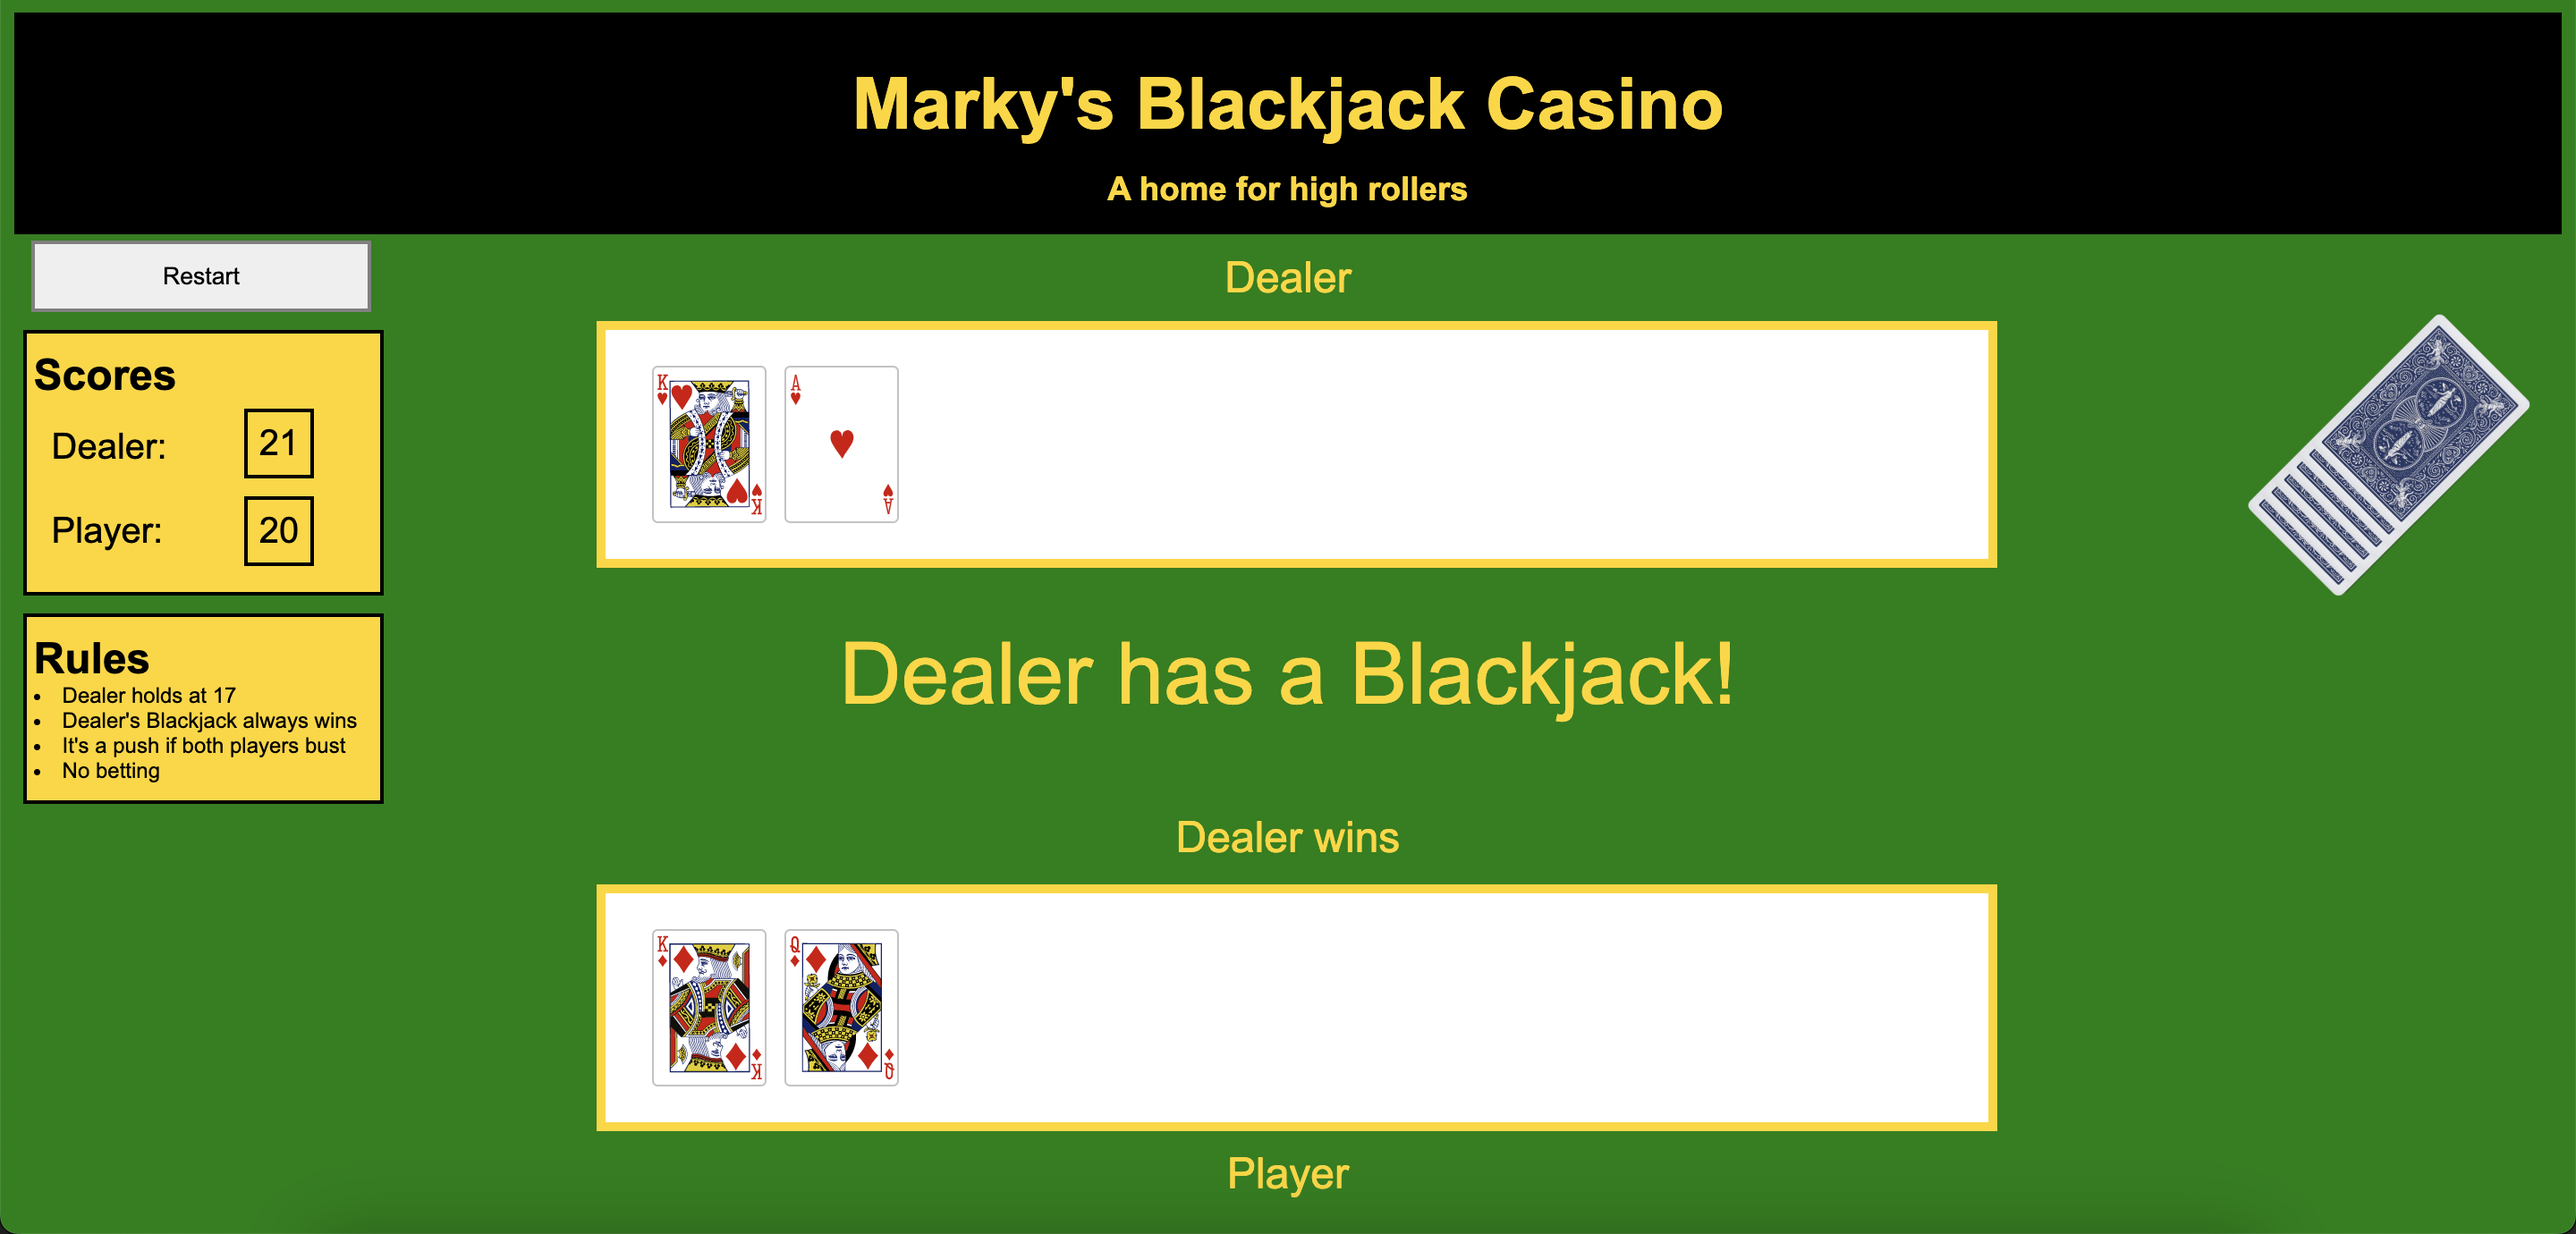
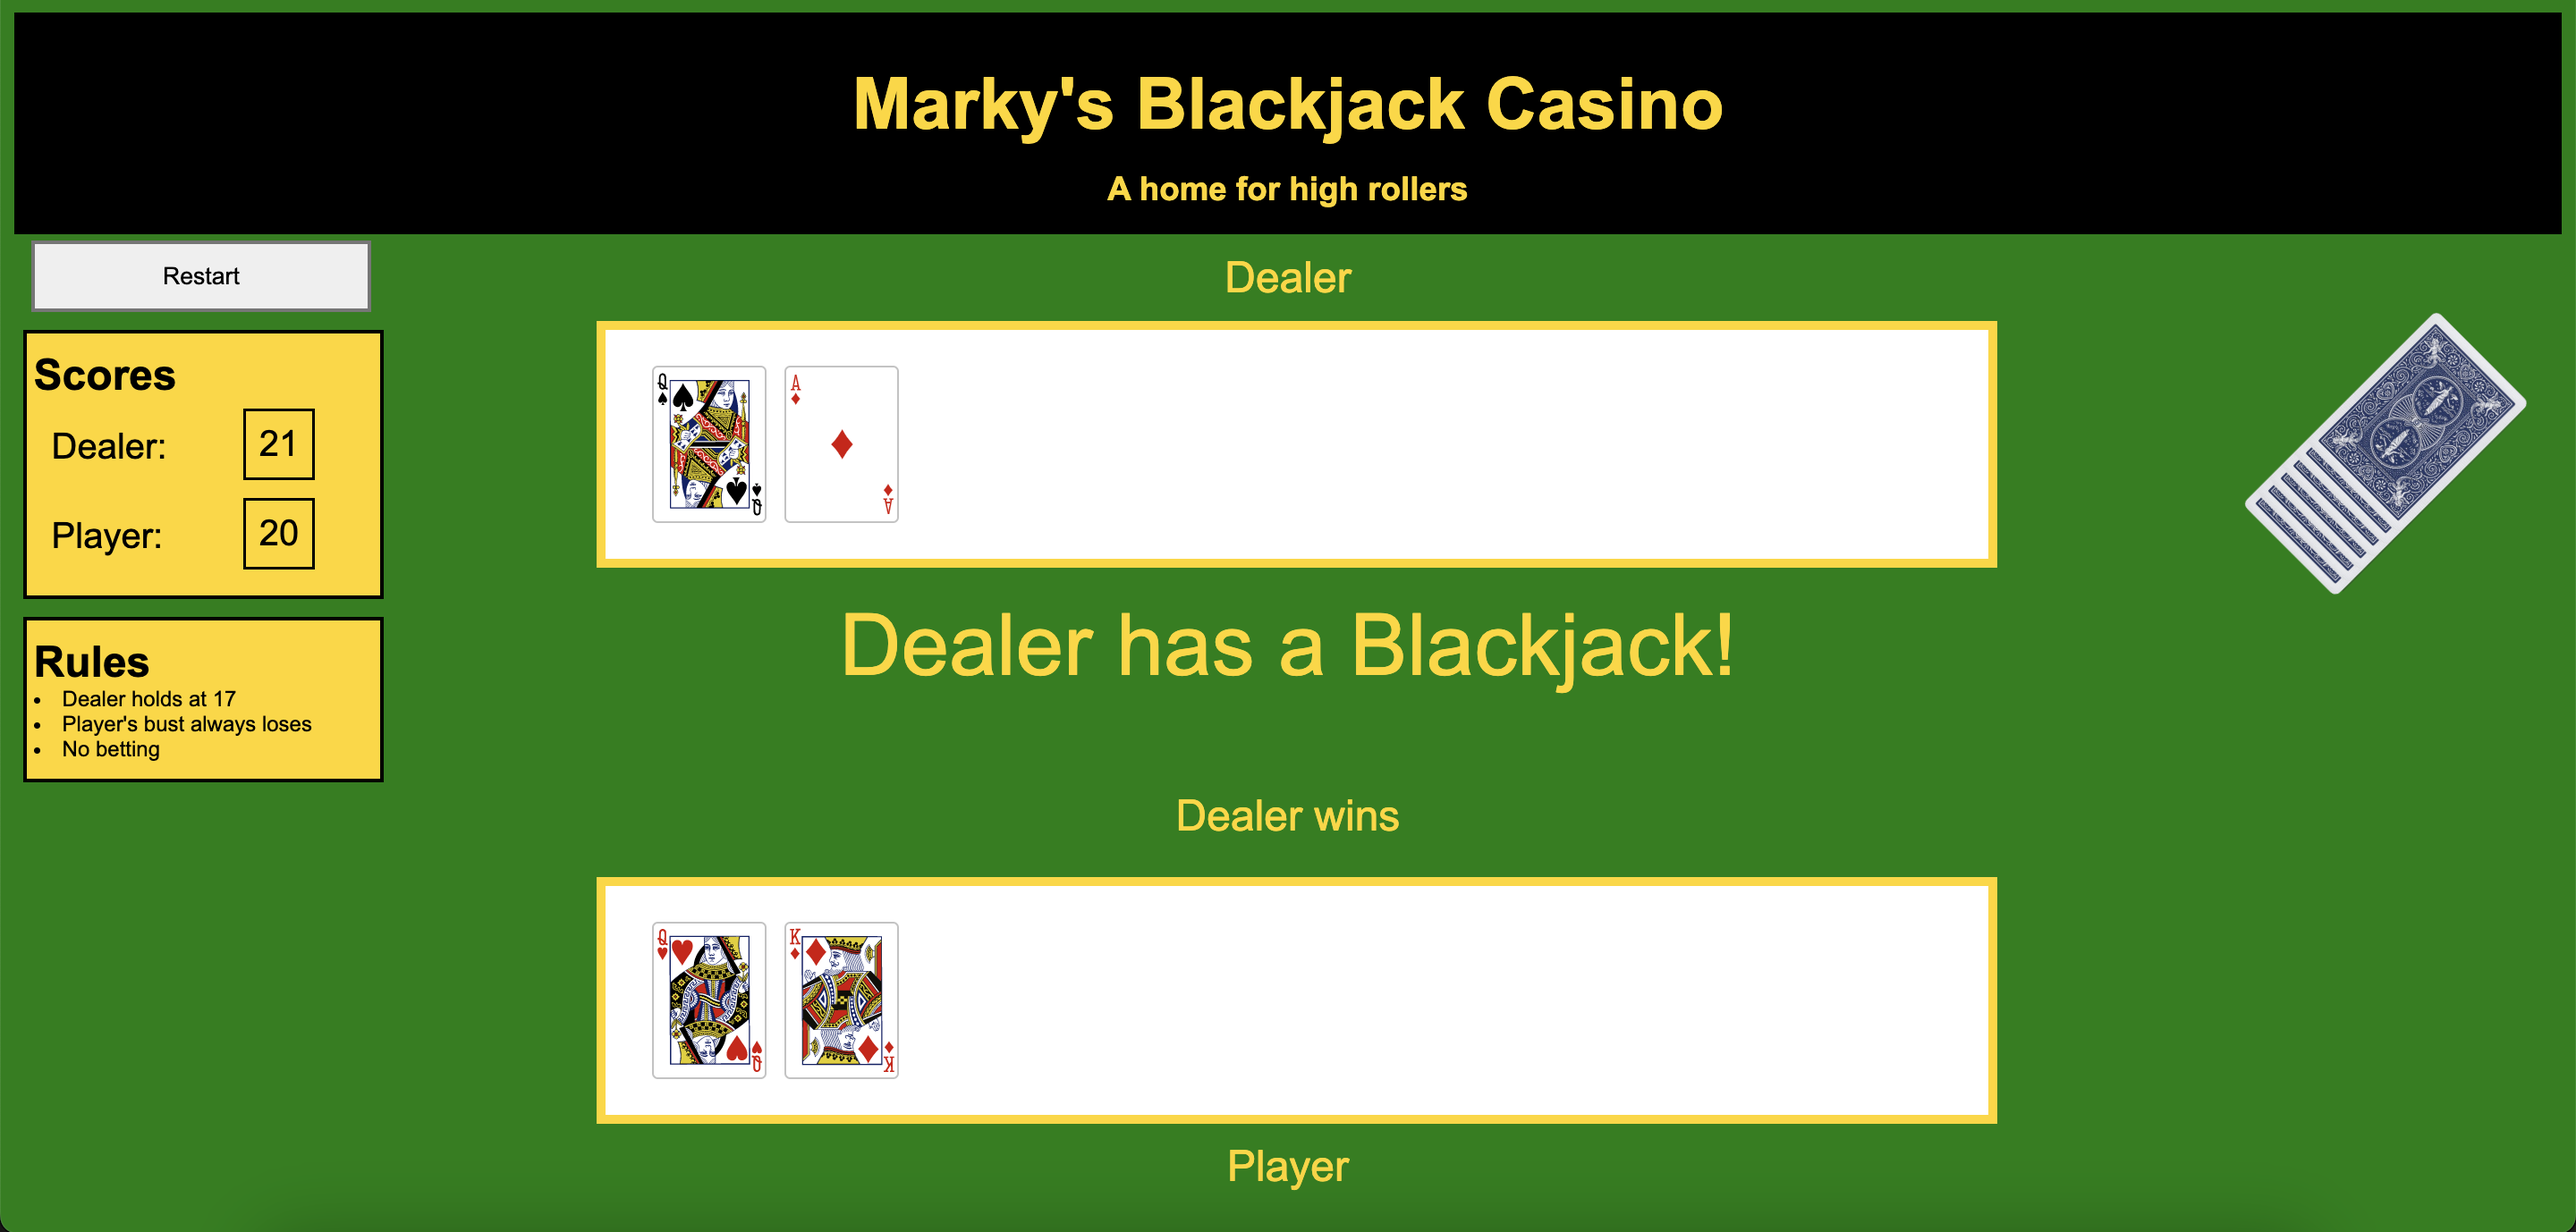
Game logic slightly updated with player's bust always losing and updated the check bust logic to prevent invocation of playcheck. Included number 10 cards in blackjack. Trying to resolve images not rendering on github pages - changed png to PNG.

diff --git a/main.js b/main.js
@@ -7,7 +7,7 @@ const cards = [
     {name: '7Hearts', value: 7, suit: 'hearts', cardClass: 'number', render: 'h07'},
     {name: '8Hearts', value: 8, suit: 'hearts', cardClass: 'number', render: 'h08'},
     {name: '9Hearts', value: 9, suit: 'hearts', cardClass: 'number', render: 'h09'},
-    {name: '10Hearts', value: 10, suit: 'hearts', cardClass: 'number', render: 'h10'},
+    {name: '10Hearts', value: 10, suit: 'hearts', cardClass: 'picture', render: 'h10'},
     {name: 'jackHearts', value: 10, suit: 'hearts', cardClass: 'picture', render: 'hJ'},
     {name: 'queenHearts', value: 10, suit: 'hearts', cardClass: 'picture', render: 'hQ'},
     {name: 'kingHearts', value: 10, suit: 'hearts', cardClass: 'picture', render: 'hK'},
@@ -21,7 +21,7 @@ const cards = [
     {name: '7Spades', value: 7, suit: 'spades', cardClass: 'number', render: 's07'},
     {name: '8Spades', value: 8, suit: 'spades', cardClass: 'number', render: 's08'},
     {name: '9Spades', value: 9, suit: 'spades', cardClass: 'number', render: 's09'},
-    {name: '10Spades', value: 10, suit: 'spades', cardClass: 'number', render: 's10'},
+    {name: '10Spades', value: 10, suit: 'spades', cardClass: 'picture', render: 's10'},
     {name: 'jackSpades', value: 10, suit: 'spades', cardClass: 'picture', render: 'sJ'},
     {name: 'queenSpades', value: 10, suit: 'spades', cardClass: 'picture', render: 'sQ'},
     {name: 'kingSpades', value: 10, suit: 'spades', cardClass: 'picture', render: 'sK'},
@@ -35,7 +35,7 @@ const cards = [
     {name: '7Clubs', value: 7, suit: 'clubs', cardClass: 'number', render: 'c07'},
     {name: '8Clubs', value: 8, suit: 'clubs', cardClass: 'number', render: 'c08'},
     {name: '9Clubs', value: 9, suit: 'clubs', cardClass: 'number', render: 'c09'},
-    {name: '10Clubs', value: 10, suit: 'clubs', cardClass: 'number', render: 'c10'},
+    {name: '10Clubs', value: 10, suit: 'clubs', cardClass: 'picture', render: 'c10'},
     {name: 'jackClubs', value: 10, suit: 'clubs', cardClass: 'picture', render: 'cJ'},
     {name: 'queenClubs', value: 10, suit: 'clubs', cardClass: 'picture', render: 'cQ'},
     {name: 'kingClubs', value: 10, suit: 'clubs', cardClass: 'picture', render: 'cK'},
@@ -49,7 +49,7 @@ const cards = [
     {name: '7Diamonds', value: 7, suit: 'diamonds', cardClass: 'number', render: 'd07'},
     {name: '8Diamonds', value: 8, suit: 'diamonds', cardClass: 'number', render: 'd08'},
     {name: '9Diamonds', value: 9, suit: 'diamonds', cardClass: 'number', render: 'd09'},
-    {name: '10Diamonds', value: 10, suit: 'diamonds', cardClass: 'number', render: 'd10'},
+    {name: '10Diamonds', value: 10, suit: 'diamonds', cardClass: 'picture', render: 'd10'},
     {name: 'jackDiamonds', value: 10, suit: 'diamonds', cardClass: 'picture', render: 'dJ'},
     {name: 'queenDiamonds', value: 10, suit: 'diamonds', cardClass: 'picture', render: 'dQ'},
     {name: 'kingDiamonds', value: 10, suit: 'diamonds', cardClass: 'picture', render: 'dK'},
@@ -150,6 +150,16 @@ function renderDealerBackCard () {
         dealtDealerCardEl.classList.add('card')
 }
 
+function turnDealerBackCardBust() {
+    if(turn === -1) {
+        dealerCardsEl.removeChild(dealerCardsEl.lastChild)
+        randomCardDraw()
+        renderLastDealersCard()
+        sumCardsDealtToDealer()
+        renderScores()
+    }
+}
+
 function turnDealerBackCard () {
     if(turn === -1) {
         dealerCardsEl.removeChild(dealerCardsEl.lastChild)
@@ -230,23 +240,23 @@ function changeTurn() {
 }
 
 function dealerPlayCheck() {
-    if((checkPlayerCardClass('ace') === true && checkPlayerCardClass('picture') === true && cardsDealtToPlayer.length === 2) && (checkDealerCardClass('ace') === undefined || checkDealerCardClass('picture') === undefined && cardsDealtToDealer.length !== 2)) {
+    if((checkPlayerCardClass('ace') === true && checkPlayerCardClass('picture') === true && cardsDealtToPlayer.length === 2) && (checkDealerCardClass('ace') === undefined || checkDealerCardClass('picture') === undefined || cardsDealtToDealer.length !== 2)) {
         renderMessage("Player has a Blackjack!")
         renderMessage2("Player wins")
         enableStartButton()
-    } else if((checkDealerCardClass('ace') === true && checkDealerCardClass('picture') === true && cardsDealtToDealer.length === 2) && (checkPlayerCardClass('ace') === undefined || checkPlayerCardClass('picture') === undefined && cardsDealtToPlayer.length !== 2)) {
+    } else if((checkDealerCardClass('ace') === true && checkDealerCardClass('picture') === true && cardsDealtToDealer.length === 2) && (checkPlayerCardClass('ace') === undefined || checkPlayerCardClass('picture') === undefined || cardsDealtToPlayer.length !== 2)) {
         renderMessage("Dealer has a Blackjack!")
         renderMessage2("Dealer wins")
         enableStartButton()
     } else if((checkDealerCardClass('ace') === true && checkDealerCardClass('picture') === true && cardsDealtToDealer.length === 2) && (checkPlayerCardClass('ace') === true && checkPlayerCardClass('picture') === true && cardsDealtToPlayer.length === 2)) {
         renderMessage("Both players have a Blackjack!")
-        renderMessage2("Dealer wins")
+        renderMessage2("It's a push")
         enableStartButton()
     } else if(dealerScore < 17) {
         dealerPlay()
     }else if(dealerScore > 21 && playerScore > 21) {
         renderMessage("Dealer and Player are bust!")
-        renderMessage2("It's a push")
+        renderMessage2("The player still loses!")
         enableStartButton()
     } else if(dealerScore > 21 && playerScore <= 21) {
         renderMessage("Dealer is bust!")
@@ -382,9 +392,8 @@ function checkPlayerCardClass(cardClass) {
 function checkPlayerBust() {
     if (playerScore > 21) {
         renderMessage("Player is Bust!")
-        renderMessage2("Dealer must hit 17 to win")
         changeTurn()
-        turnDealerBackCard()
+        turnDealerBackCardBust()
         sumCardsDealtToDealer()
         renderPlayerScore()
         hidePlayButtons()

diff --git a/index.html b/index.html
@@ -12,7 +12,7 @@
   <meta property="og:title" content="Marky's Blackjack Casino">
   <meta property="og:type" content="website">
   <meta property="og:description" content="A simple and free Blackjack game with no betting">
-  <link rel="icon" href="/assets/MS Icon - Grey Simple.png" type="image/svg+xml">
+  <link rel="icon" href="/assets/MS Icon - Grey Simple.PNG">
   <link rel="apple-touch-icon" href="/apple-touch-icon.png">
   <link rel="stylesheet" href="main.css">
   <link rel="stylesheet" href="card-deck-css/css/cardstarter.css">
@@ -30,8 +30,7 @@
     </div>
     <div class = "rules" class = "static-table-element">Rules<br><span>
         <li class = "rules-ul">Dealer holds at 17</ul>
-        <li class = "rules-ul">Dealer's Blackjack always wins</ul>
-        <li class = "rules-ul">It's a push if both players bust</ul>
+        <li class = "rules-ul">Player's bust always loses</ul>
         <li class = "rules-ul">No betting</ul>
     </div>
     <div class = "player-stack"></div>
@@ -42,7 +41,7 @@
     <div class = "message-2"></div>
     <div class = "player-cards" class = "playing-area"></div>
     <div class = "player-name" class = "players-names">Player</div>
-    <div class = "card-deck"><img src="/assets/deck.png" alt="A deck of cards" width="75px" ></div>
+    <div class = "card-deck"><img src="/assets/deck.PNG" alt="A deck of cards" width="75px" ></div>
     <div class = "play-buttons">Play Buttons
         <button class = "hit-button" class = "buttons">Hit</button> 
         <button class = "hold-button" class = "buttons">Hold</button> 

diff --git a/README.md b/README.md
@@ -11,8 +11,7 @@ Blackjack is my go-to game at the casino, so I thought it would be fun to recrea
 ### Rules
 In order to effectively design the win logic, I first set the parameters of the game to know how to proceed. These are the rules that I chose:
  - Dealer holds at 17 
- - Dealer's Blackjack always wins
- - It's a push if both players bust
+ - Player's bust always loses
  - No betting
 
 <br>
@@ -37,23 +36,38 @@ Here are some screenshots of my game:
 
 <br>
 
-### Dealer Win
+### Player Wins
+![](/assets/Player%20wins.png)
+
+<br>
+
+### Dealer Wins
 ![](/assets/Dealer%20wins.png)
 
 <br>
 
-### Player Bust
+### Player is Bust
 ![](/assets/Player%20bust.png)
 
 <br>
 
-### Player Blackjack
+### Dealer is Bust
+![](/assets/Dealer%20bust.png)
+
+<br>
+
+### Player has a Blackjack
 ![](/assets/Player%20Blackjack.png)
 
 <br>
 
-### Dealer Blackjack
+### Dealer has a Blackjack
 ![](/assets/Dealer%20Blackjack.png)
+
+<br>
+
+### Dealer in play
+![](/assets/Dealer's%20Play.png)
 
 <br>
 <br>
@@ -68,8 +82,7 @@ In this project I used the following tools:
 <br>
 
 ## Play the game!
-
-<button name="button" onclick="www.google.com">Launch Game</button>
+https://marcuswonder.github.io/project_1_blackjack/
 
 <br>
 <br>
